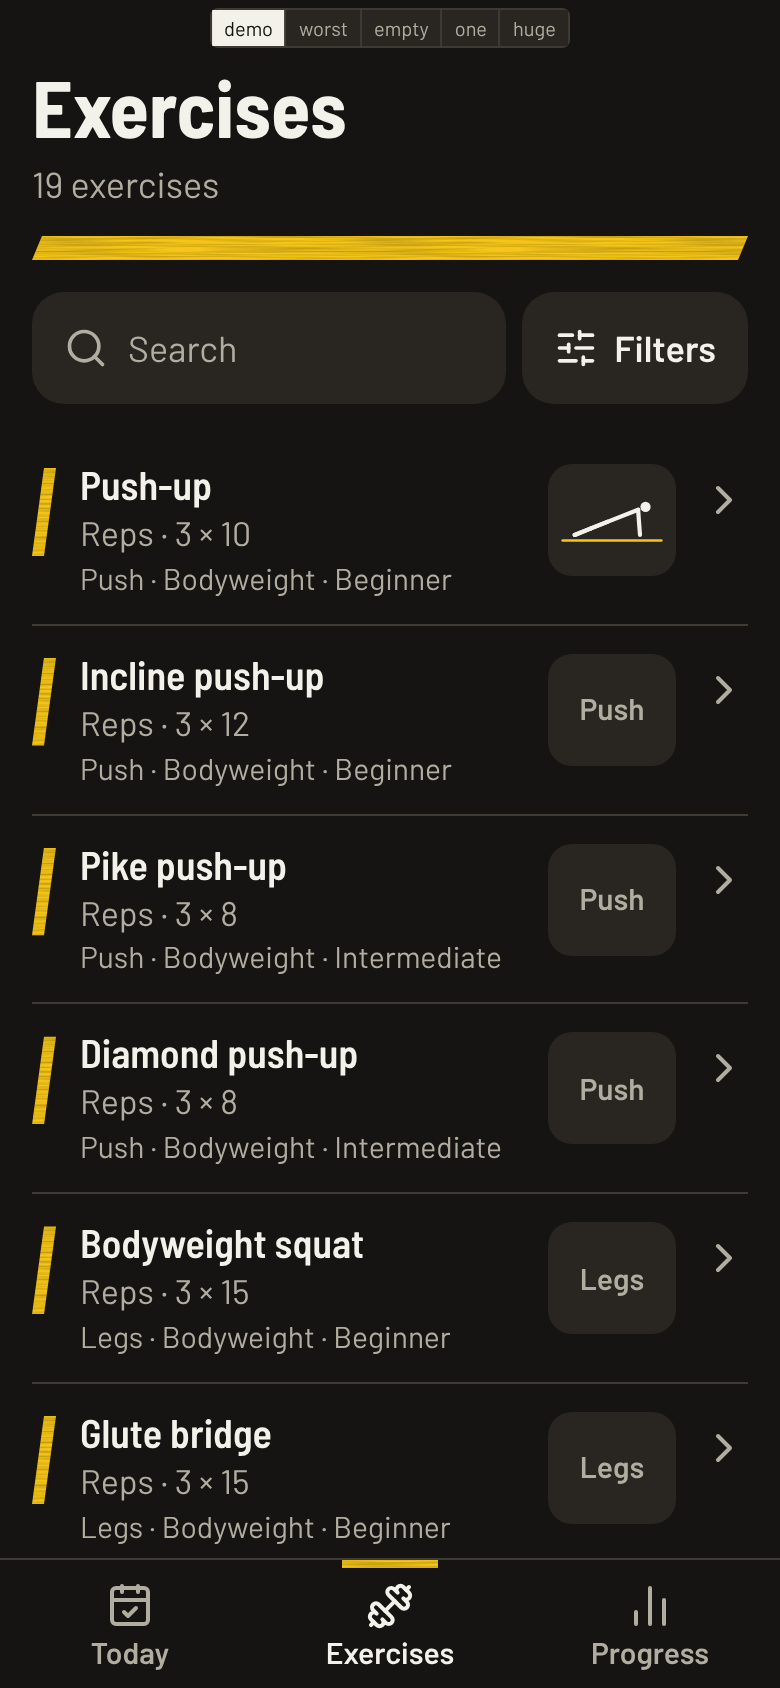
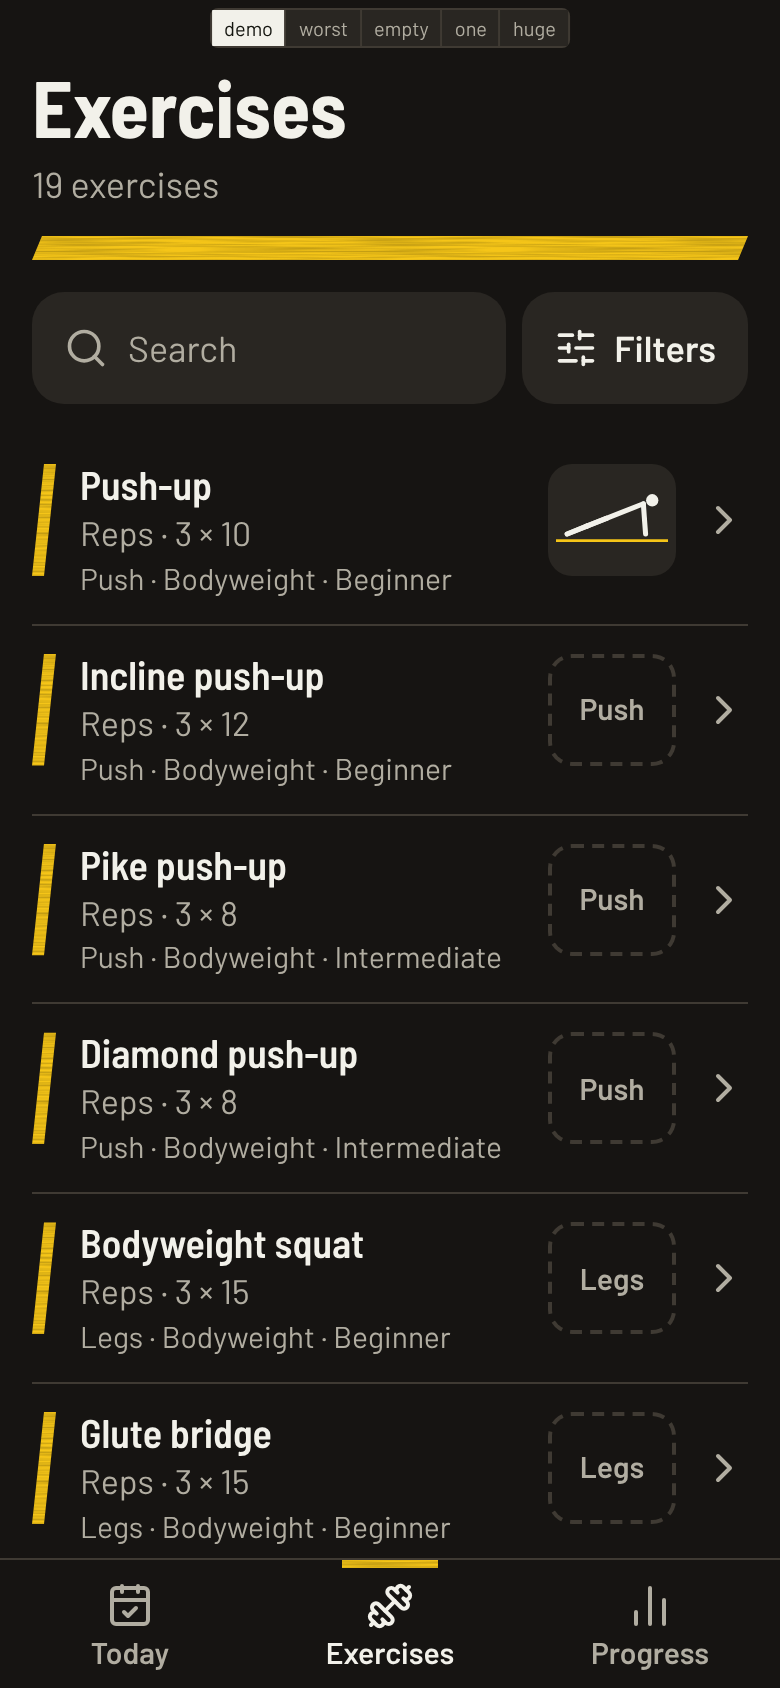
Batch D review fixes: toast clear of buttons, saved empty state, row geometry, tile crop, filter sheet a11y
Claude-Session: https://claude.ai/code/session_01QSdbTS6XM65aGeFM4K1ddu

diff --git a/src/components/ExerciseRow.tsx b/src/components/ExerciseRow.tsx
@@ -25,7 +25,7 @@ export function ExerciseRow({ exercise, keyed = false, clamp = false, onOpen, sh
   const inner = (
     <>
       <span
-        className={`tape-cut mt-1 h-11 w-3 shrink-0 ${keyed ? 'tape-fill' : 'bg-line'}`}
+        className={`tape-cut mt-0.5 h-14 w-3 shrink-0 ${keyed ? 'tape-fill' : 'bg-line'}`}
         aria-hidden="true"
       />
       <span className="flex min-w-0 flex-1 flex-col text-left">
@@ -45,18 +45,20 @@ export function ExerciseRow({ exercise, keyed = false, clamp = false, onOpen, sh
           {meta.label} · {rowSummary(exercise)}
         </span>
         {showAttributes && exercise.equipment && exercise.level && (
-          <span className="text-[15px] text-muted">
-            {exercise.category ? `${CATEGORY_LABELS[exercise.category]} · ` : ''}
-            {EQUIPMENT_LABELS[exercise.equipment]} · {LEVEL_LABELS[exercise.level]}
+          <span className="text-[15px] text-pretty text-muted">
+            {exercise.category && <span className="whitespace-nowrap">{CATEGORY_LABELS[exercise.category]} · </span>}
+            <span className="whitespace-nowrap">{EQUIPMENT_LABELS[exercise.equipment]}</span>
+            {' · '}
+            <span className="whitespace-nowrap">{LEVEL_LABELS[exercise.level]}</span>
           </span>
         )}
       </span>
       {showAttributes && (
-        <ExerciseThumb exerciseId={exercise.id} caption={exercise.category ? CATEGORY_LABELS[exercise.category] : 'Demo'} />
+        <ExerciseThumb exerciseId={exercise.id} caption={exercise.category ? CATEGORY_LABELS[exercise.category] : ''} />
       )}
     </>
   )
-  const layout = 'flex min-h-[72px] w-full items-start gap-3 py-3'
+  const layout = 'flex min-h-[72px] w-full items-start gap-3 py-3 max-[360px]:gap-2'
   return (
     <li
       className="border-t border-line first:border-t-0"
@@ -70,7 +72,7 @@ export function ExerciseRow({ exercise, keyed = false, clamp = false, onOpen, sh
           data-testid="exercise-open"
         >
           {inner}
-          <ChevronRight size={24} className="mt-2 shrink-0 text-muted" aria-hidden="true" />
+          <ChevronRight size={24} className="mt-[18px] shrink-0 text-muted" aria-hidden="true" />
         </button>
       ) : (
         <div className={layout}>{inner}</div>

diff --git a/src/screens/ExerciseDetailScreen.tsx b/src/screens/ExerciseDetailScreen.tsx
@@ -16,7 +16,7 @@ interface ExerciseDetailScreenProps {
   entries: Entry[]
   onAdd: (entry: Omit<Entry, 'id'>) => void
   saved: boolean
-  onToggleSaved: () => void
+  onToggleSaved: () => boolean
   onBack: () => void
 }
 
@@ -82,11 +82,11 @@ export function ExerciseDetailScreen({ exercise, plan, entries, onAdd, saved, on
           <button
             type="button"
             className="press grid size-12 place-items-center rounded-full bg-surface-2"
-            aria-label={saved ? 'Remove from saved' : 'Save exercise'}
+            aria-label="Save exercise"
             aria-pressed={saved}
             onClick={() => {
-              onToggleSaved()
-              setToast(saved ? 'Removed from saved' : 'Saved to your exercises')
+              const kept = onToggleSaved()
+              setToast(!kept ? 'Could not save on this device' : saved ? 'Removed from saved' : 'Saved to your exercises')
             }}
             data-testid="bookmark"
           >
@@ -94,7 +94,7 @@ export function ExerciseDetailScreen({ exercise, plan, entries, onAdd, saved, on
           </button>
         </div>
         <div
-          className="pointer-events-none fixed inset-x-0 top-[max(0.75rem,env(safe-area-inset-top))] z-30 mx-auto flex w-full max-w-[480px] justify-center px-4"
+          className="pointer-events-none fixed inset-x-0 top-[calc(max(0.75rem,env(safe-area-inset-top))+3.75rem)] z-30 mx-auto flex w-full max-w-[480px] justify-center px-4"
           role="status"
           data-testid="save-toast"
         >

diff --git a/src/components/FilterSheet.tsx b/src/components/FilterSheet.tsx
@@ -53,6 +53,7 @@ export function FilterSheet({ open, onOpenChange, filters, onChange, count }: Fi
       open={open}
       onOpenChange={onOpenChange}
       title="Filters"
+      compactWhenShort
       why="Within a group any choice counts. A choice in each group narrows the list."
       saveLabel={count === 0 ? 'No exercises match' : `Show ${count} ${count === 1 ? 'exercise' : 'exercises'}`}
       canSave={count > 0}
@@ -60,13 +61,20 @@ export function FilterSheet({ open, onOpenChange, filters, onChange, count }: Fi
         <button
           type="button"
           disabled={active === 0}
-          onClick={() => onChange({ ...NO_FILTERS, query: filters.query })}
+          onClick={() => {
+            onChange({ ...NO_FILTERS, query: filters.query })
+            // The button disables itself once nothing is set, so move focus somewhere that stays.
+            document.getElementById('sheet-title')?.focus()
+          }}
           className="press h-12 shrink-0 rounded-full bg-surface-2 px-4 text-lg font-semibold text-ink disabled:bg-transparent disabled:text-muted disabled:opacity-60"
         >
           Reset
         </button>
       }
     >
+      <p className="sr-only" role="status">
+        {count === 0 ? 'No exercises match' : `${count} ${count === 1 ? 'exercise matches' : 'exercises match'}`}
+      </p>
       <div className="flex flex-col">
         <Group title="How it is counted">
           {TYPES.map((t) => (

diff --git a/tests/bookmarks.spec.ts b/tests/bookmarks.spec.ts
@@ -70,3 +70,22 @@ test('thumbnails do not make rows overflow at 320 with long names', async ({ pag
   const ok = await page.evaluate(() => document.documentElement.scrollWidth <= document.documentElement.clientWidth)
   expect(ok).toBe(true)
 })
+
+test('Saved only with nothing saved says so, and the toast clears the Back and bookmark buttons', async ({ page }) => {
+  await page.setViewportSize({ width: 320, height: 640 })
+  await page.goto('/?stage=exercises')
+  await page.getByTestId('open-filters').click()
+  await page.getByRole('dialog').getByRole('button', { name: 'Saved only' }).click()
+  await page.getByRole('dialog').getByRole('button', { name: /Show 0|No exercises match/ }).waitFor()
+  await page.keyboard.press('Escape')
+  await page.waitForTimeout(500)
+  await expect(page.getByRole('heading', { name: 'Nothing saved yet' })).toBeVisible()
+  await page.goto('/?stage=exercises')
+  await page.getByTestId('exercise-open').first().click()
+  await page.getByTestId('bookmark').click()
+  const toast = (await page.getByTestId('save-toast').locator('p').boundingBox())!
+  const back = (await page.getByTestId('detail-back').boundingBox())!
+  const mark = (await page.getByTestId('bookmark').boundingBox())!
+  expect(toast.y).toBeGreaterThanOrEqual(back.y + back.height - 1)
+  expect(toast.y).toBeGreaterThanOrEqual(mark.y + mark.height - 1)
+})

diff --git a/src/components/DemoFigure.tsx b/src/components/DemoFigure.tsx
@@ -289,13 +289,13 @@ export function ExerciseThumb({ exerciseId, caption }: { exerciseId: string; cap
   const pair = POSES[exerciseId]
   return (
     <span
-      className="mt-0.5 grid h-14 w-16 shrink-0 place-items-center overflow-hidden rounded-xl bg-surface-2"
+      className={`mt-0.5 grid h-14 w-16 shrink-0 place-items-center overflow-hidden rounded-xl max-[360px]:h-12 max-[360px]:w-12 ${pair ? 'bg-surface-2' : 'border-2 border-dashed border-line'}`}
       aria-hidden="true"
       data-testid={pair ? 'thumb-figure' : 'thumb-placeholder'}
     >
       {pair ? (
         <span className="block h-full w-full p-1">
-          <StaticFrame pose={pair.start} prop={pair.prop} view={pair.view} />
+          <StaticFrame pose={pair.start} prop={pair.prop} view={pair.view === LYING ? '20 64 200 90' : '50 30 120 125'} />
         </span>
       ) : (
         <span className="text-[15px] font-semibold text-muted">{caption}</span>

diff --git a/src/screens/ExercisesScreen.tsx b/src/screens/ExercisesScreen.tsx
@@ -130,7 +130,15 @@ export function ExercisesScreen({ exercises: all, limits, savedIds, onStart, onO
               </button>
             </div>
 
-            {shown.length === 0 && !showAll && hiddenMatches > 0 ? (
+            {shown.length === 0 && filters.saved && savedIds.length === 0 ? (
+              <EmptyState
+                illustration={<EmptySlots />}
+                title="Nothing saved yet"
+                body="Tap the bookmark on an exercise to keep it here."
+                actionLabel={`Show all ${total} exercises`}
+                onAction={() => setFilters(NO_FILTERS)}
+              />
+            ) : shown.length === 0 && !showAll && hiddenMatches > 0 ? (
               <EmptyState
                 illustration={<EmptySlots />}
                 title="Hidden by your limits"

diff --git a/src/App.tsx b/src/App.tsx
@@ -59,12 +59,12 @@ function Screen() {
     setStage('player')
   }
   const [savedIds, setSavedIds] = useState<string[]>(loadSaved)
-  const toggleSaved = (id: string) =>
-    setSavedIds((list) => {
-      const next = list.includes(id) ? list.filter((x) => x !== id) : [...list, id]
-      saveSaved(next)
-      return next
-    })
+  /** Returns false when the browser refused to keep the change. */
+  const toggleSaved = (id: string): boolean => {
+    const next = savedIds.includes(id) ? savedIds.filter((x) => x !== id) : [...savedIds, id]
+    setSavedIds(next)
+    return saveSaved(next)
+  }
   const [saveFailed, setSaveFailed] = useState(false)
   const [chosen, setChosen] = useState<Chosen | null>(loadChosen)
   const chosenProgramme = programmeById(chosen?.id)

diff --git a/src/lib/saved.ts b/src/lib/saved.ts
@@ -14,10 +14,12 @@ export function loadSaved(): string[] {
   }
 }
 
-export function saveSaved(ids: string[]): void {
+/** Returns false when the browser refused to store the list. */
+export function saveSaved(ids: string[]): boolean {
   try {
     window.localStorage.setItem(SAVED_KEY, JSON.stringify({ v: 1, ids }))
+    return true
   } catch {
-    /* Not remembered. */
+    return false
   }
 }

diff --git a/DESIGN.md b/DESIGN.md
@@ -272,4 +272,4 @@ The limits chosen in set up ("Train quietly", "Limited space", "No running or sp
 In the equipment sheet, choosing Dumbbells or Resistance band opens a short follow-up block under the list, the same shape as the pull-up bar one: a heading ("About your dumbbells"), a one-line consequence that updates in place (announced politely), and one switch that starts off ("I have a pair heavier than 10 kg each", "I can anchor the band to a door or a post"). They change the wording of the consequence only (as the pull-up bar ones do); nothing in the plan or the list is filtered by them yet, so the lines are a prototype convention, not a promise the app keeps.
 
 ### Category, saved and thumbnails on the library list
-Each library row's last line reads "Push · Bodyweight · Beginner" (category from the placeholder `category` field). The filter sheet gains "Saved" ("Saved only") and "Category" chip groups above Equipment; both count in the badge. A bookmark icon button (48px circle, pressed state, "Save exercise" / "Remove from saved") sits opposite Back on the exercise detail screen. Tapping it shows a pill toast at the top of the screen for about two seconds ("Saved to your exercises" / "Removed from saved"), announced politely and never shown on opening the screen; the top is used so it does not meet the tab bar. Saved ids are kept in `exercise-demo:saved` (validated on read) and saved rows show a small bookmark after the name. Rows end with a 64 by 56 tile: the drawn start frame where one exists (4 exercises), otherwise a placeholder tile with the category word, until real thumbnails exist.
+Each library row's last line reads "Push · Bodyweight · Beginner" (category from the placeholder `category` field). The filter sheet gains "Saved" ("Saved only") and "Category" chip groups above Equipment; both count in the badge. A bookmark icon button (48px circle, one fixed label "Save exercise" with a pressed state) sits opposite Back on the exercise detail screen. Tapping it shows a pill toast just below that button row for about two seconds ("Saved to your exercises", "Removed from saved", or "Could not save on this device" when the browser refuses), announced politely and never shown on opening the screen; it sits under the buttons so it covers neither them nor the tab bar. "Saved only" with nothing saved says "Nothing saved yet". Saved ids are kept in `exercise-demo:saved` (validated on read) and saved rows show a small bookmark after the name. Rows end with a 64 by 56 tile (48 by 48 under 360px wide): the drawn start frame, cropped tight, where one exists (4 exercises), otherwise a dashed-outline placeholder tile with the category word, until real thumbnails exist. The slot, tile and chevron share one vertical centre. The three-part attribute line keeps each part together. Search does not look at the category (the chip does). The filter sheet hides its reason text on short screens, announces the live count in a hidden status line, and moves focus to its title after Reset.

diff --git a/docs/overnight-queue.md b/docs/overnight-queue.md
@@ -23,7 +23,7 @@ Rules: one commit per feature, push after each, tests after each feature, one re
 - [x] Category chips on exercise rows (row 32)
 - [x] Bookmarks with a save toast that fires only on the action (rows 30, 39)
 - [x] Thumbnails: drawn figure where one exists, marked placeholder tile otherwise (row 41)
-- [ ] Batch D review and fixes
+- [x] Batch D review and fixes (source-only review; applied 13 of 14, search by category left out on purpose)
 
 ## Batch E: Session and loading
 - [ ] Warm-up and cool-down collapsible sections, placeholder data (row 42)
